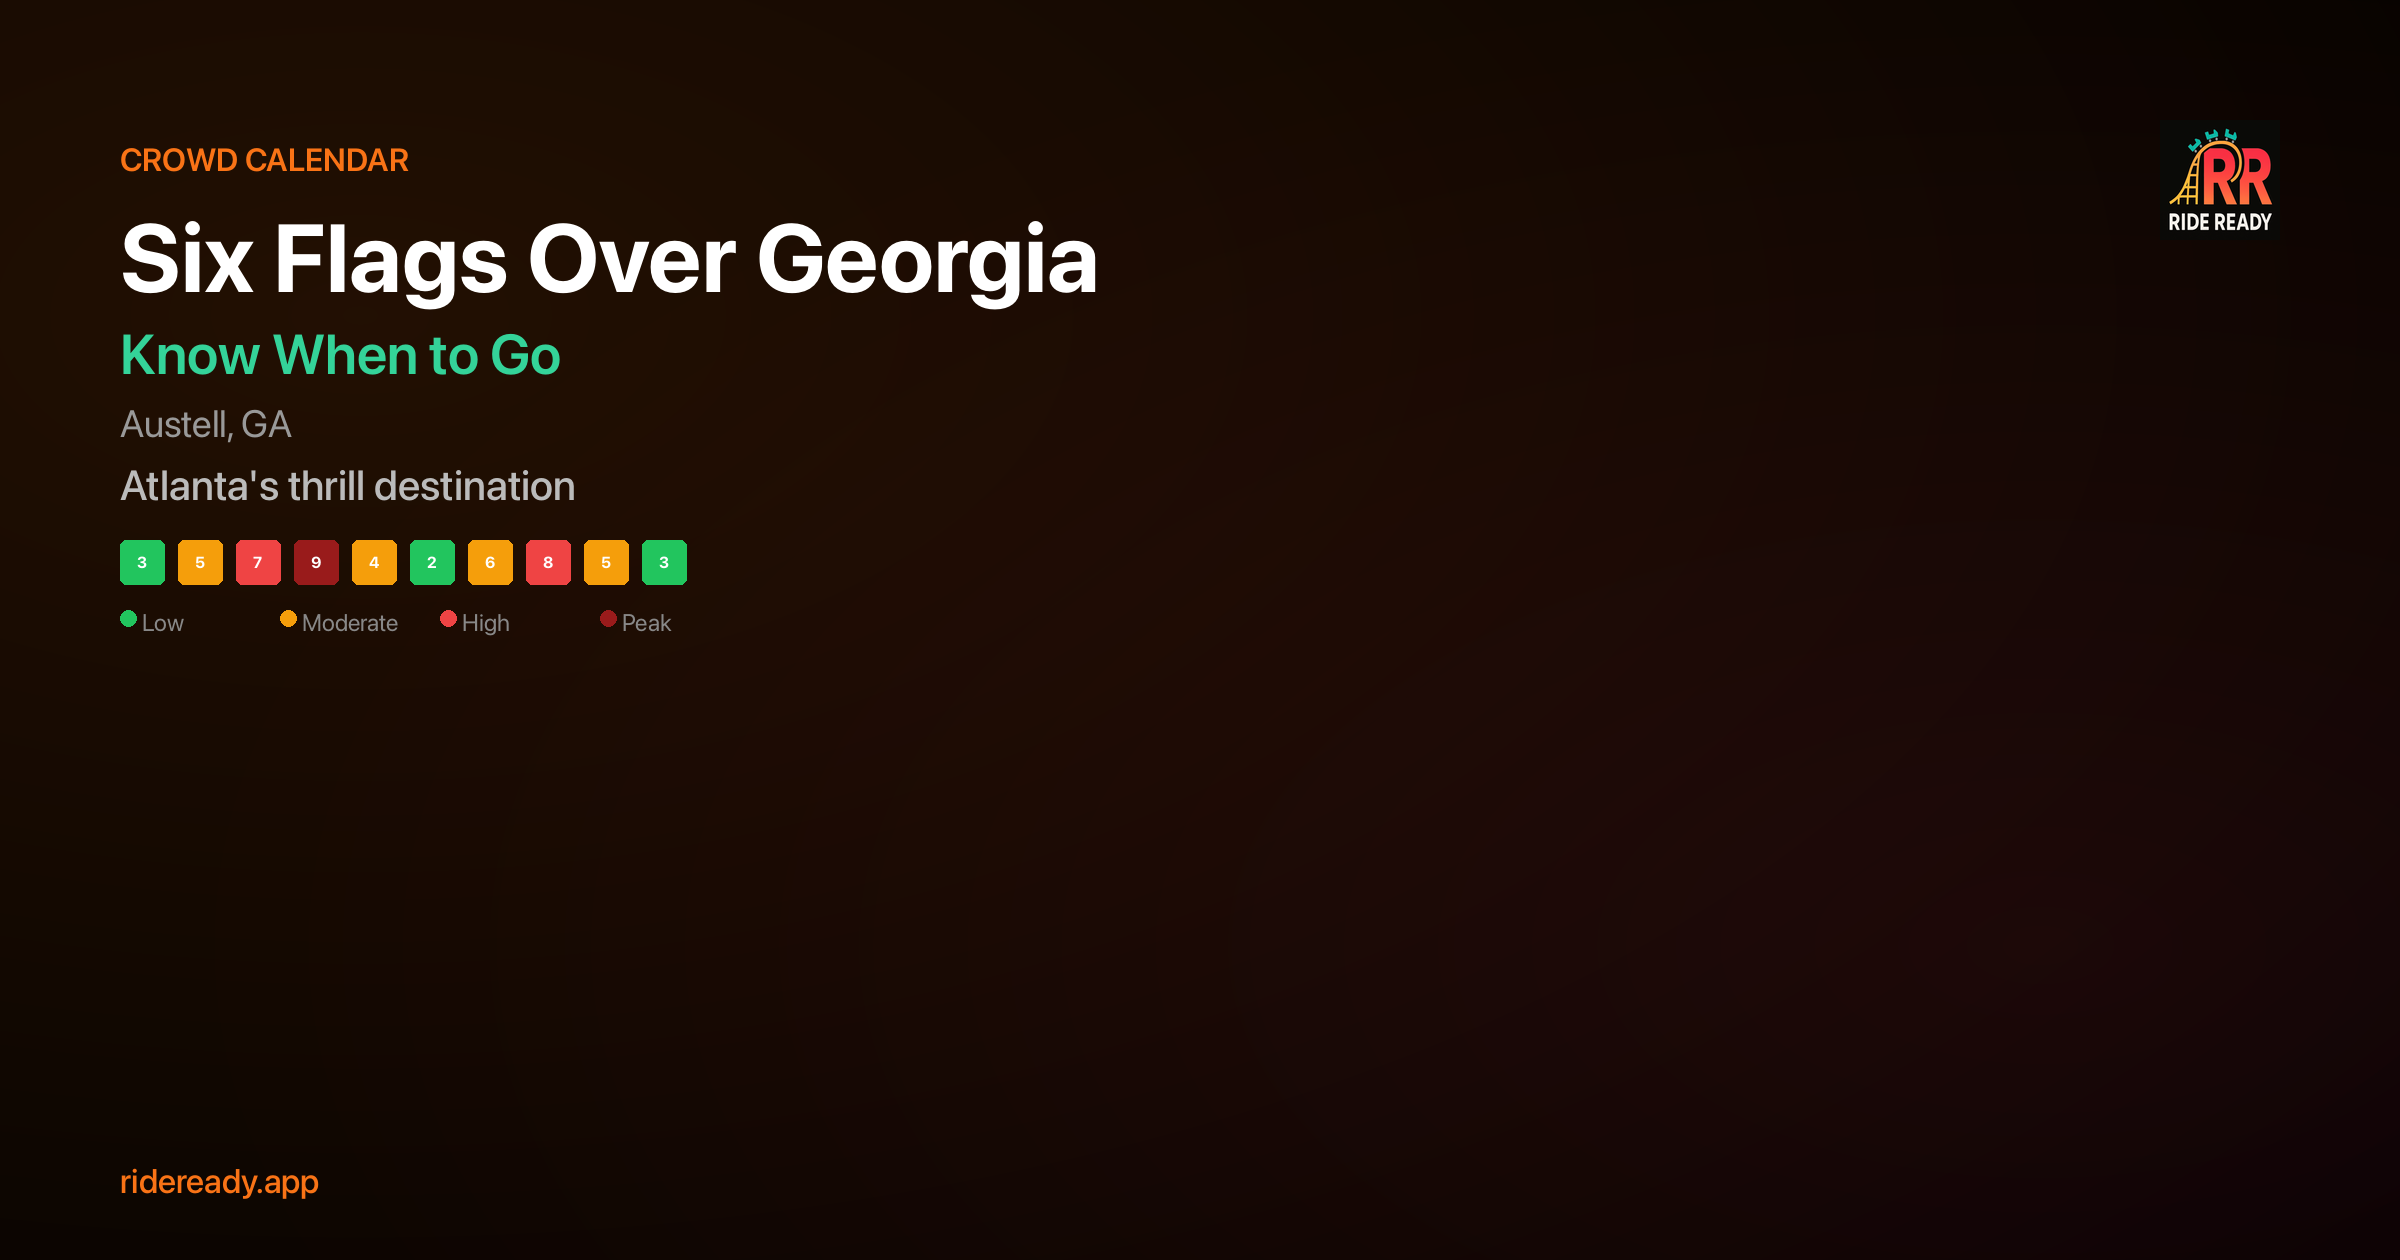
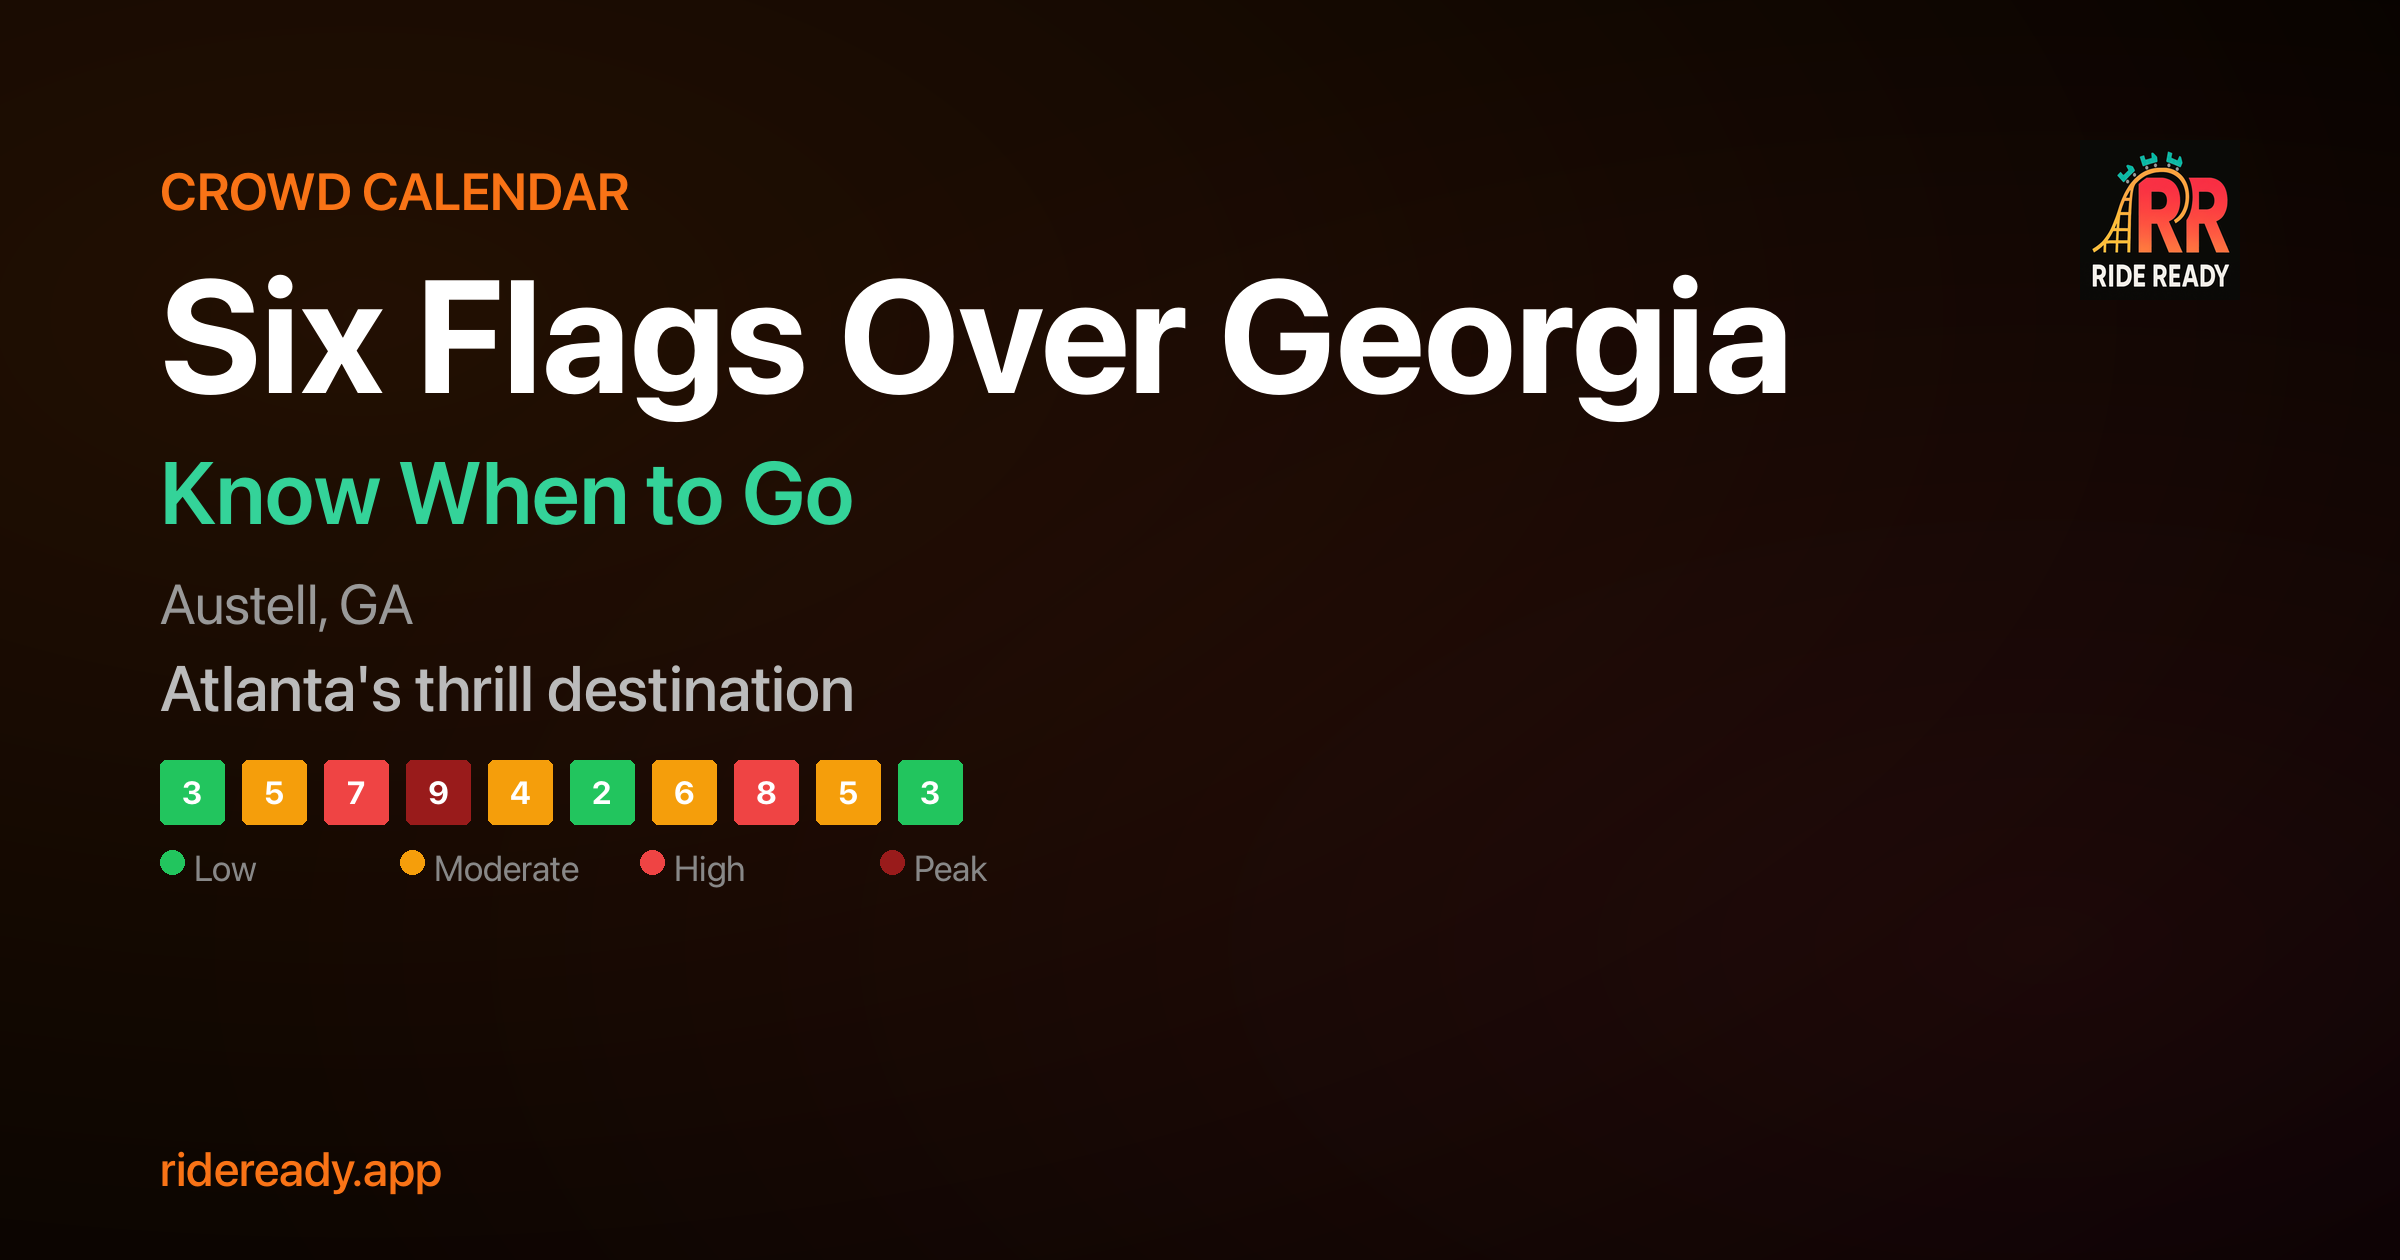
fix: show date + "Closed" on closed calendar days + scale up OG images
Calendar: closed days now show the date number and "Closed" label
instead of blank cells. Applied to all 14 park calendar pages.

OG images: roughly doubled all font sizes and element spacing so
the text fills the 2400x1260 canvas. Previous version had tiny
text clustered in the upper-left with too much empty space.

diff --git a/parks/busch-gardens-tampa/crowd-calendar/index.html b/parks/busch-gardens-tampa/crowd-calendar/index.html
@@ -1707,9 +1707,10 @@
         const dateStr = `${year}-${String(month).padStart(2, "0")}-${String(day).padStart(2, "0")}`;
         const rec = getActualForDate(dateStr);
         if (!rec) {
-          const empty = document.createElement("div");
-          empty.className = "cell empty";
-          grid.appendChild(empty);
+          const closed = document.createElement("div");
+          closed.className = "cell empty";
+          closed.innerHTML = '<span class="cell-date" style="opacity:0.35">' + day + '</span><span class="cell-label" style="opacity:0.3;font-size:0.6rem">Closed</span>';
+          grid.appendChild(closed);
           continue;
         }
         grid.appendChild(buildCell(rec));

diff --git a/parks/busch-gardens-williamsburg/crowd-calendar/index.html b/parks/busch-gardens-williamsburg/crowd-calendar/index.html
@@ -1707,9 +1707,10 @@
         const dateStr = `${year}-${String(month).padStart(2, "0")}-${String(day).padStart(2, "0")}`;
         const rec = getActualForDate(dateStr);
         if (!rec) {
-          const empty = document.createElement("div");
-          empty.className = "cell empty";
-          grid.appendChild(empty);
+          const closed = document.createElement("div");
+          closed.className = "cell empty";
+          closed.innerHTML = '<span class="cell-date" style="opacity:0.35">' + day + '</span><span class="cell-label" style="opacity:0.3;font-size:0.6rem">Closed</span>';
+          grid.appendChild(closed);
           continue;
         }
         grid.appendChild(buildCell(rec));

diff --git a/parks/canadas-wonderland/crowd-calendar/index.html b/parks/canadas-wonderland/crowd-calendar/index.html
@@ -1709,9 +1709,10 @@
         const dateStr = `${year}-${String(month).padStart(2, "0")}-${String(day).padStart(2, "0")}`;
         const rec = getActualForDate(dateStr);
         if (!rec) {
-          const empty = document.createElement("div");
-          empty.className = "cell empty";
-          grid.appendChild(empty);
+          const closed = document.createElement("div");
+          closed.className = "cell empty";
+          closed.innerHTML = '<span class="cell-date" style="opacity:0.35">' + day + '</span><span class="cell-label" style="opacity:0.3;font-size:0.6rem">Closed</span>';
+          grid.appendChild(closed);
           continue;
         }
         grid.appendChild(buildCell(rec));

diff --git a/parks/carowinds/crowd-calendar/index.html b/parks/carowinds/crowd-calendar/index.html
@@ -1707,9 +1707,10 @@
         const dateStr = `${year}-${String(month).padStart(2, "0")}-${String(day).padStart(2, "0")}`;
         const rec = getActualForDate(dateStr);
         if (!rec) {
-          const empty = document.createElement("div");
-          empty.className = "cell empty";
-          grid.appendChild(empty);
+          const closed = document.createElement("div");
+          closed.className = "cell empty";
+          closed.innerHTML = '<span class="cell-date" style="opacity:0.35">' + day + '</span><span class="cell-label" style="opacity:0.3;font-size:0.6rem">Closed</span>';
+          grid.appendChild(closed);
           continue;
         }
         grid.appendChild(buildCell(rec));

diff --git a/parks/cedar-point/crowd-calendar/index.html b/parks/cedar-point/crowd-calendar/index.html
@@ -1707,9 +1707,10 @@
         const dateStr = `${year}-${String(month).padStart(2, "0")}-${String(day).padStart(2, "0")}`;
         const rec = getActualForDate(dateStr);
         if (!rec) {
-          const empty = document.createElement("div");
-          empty.className = "cell empty";
-          grid.appendChild(empty);
+          const closed = document.createElement("div");
+          closed.className = "cell empty";
+          closed.innerHTML = '<span class="cell-date" style="opacity:0.35">' + day + '</span><span class="cell-label" style="opacity:0.3;font-size:0.6rem">Closed</span>';
+          grid.appendChild(closed);
           continue;
         }
         grid.appendChild(buildCell(rec));

diff --git a/parks/epic-universe/crowd-calendar/index.html b/parks/epic-universe/crowd-calendar/index.html
@@ -1707,9 +1707,10 @@
         const dateStr = `${year}-${String(month).padStart(2, "0")}-${String(day).padStart(2, "0")}`;
         const rec = getActualForDate(dateStr);
         if (!rec) {
-          const empty = document.createElement("div");
-          empty.className = "cell empty";
-          grid.appendChild(empty);
+          const closed = document.createElement("div");
+          closed.className = "cell empty";
+          closed.innerHTML = '<span class="cell-date" style="opacity:0.35">' + day + '</span><span class="cell-label" style="opacity:0.3;font-size:0.6rem">Closed</span>';
+          grid.appendChild(closed);
           continue;
         }
         grid.appendChild(buildCell(rec));

diff --git a/parks/islands-of-adventure/crowd-calendar/index.html b/parks/islands-of-adventure/crowd-calendar/index.html
@@ -1707,9 +1707,10 @@
         const dateStr = `${year}-${String(month).padStart(2, "0")}-${String(day).padStart(2, "0")}`;
         const rec = getActualForDate(dateStr);
         if (!rec) {
-          const empty = document.createElement("div");
-          empty.className = "cell empty";
-          grid.appendChild(empty);
+          const closed = document.createElement("div");
+          closed.className = "cell empty";
+          closed.innerHTML = '<span class="cell-date" style="opacity:0.35">' + day + '</span><span class="cell-label" style="opacity:0.3;font-size:0.6rem">Closed</span>';
+          grid.appendChild(closed);
           continue;
         }
         grid.appendChild(buildCell(rec));

diff --git a/parks/kings-dominion/crowd-calendar/index.html b/parks/kings-dominion/crowd-calendar/index.html
@@ -1707,9 +1707,10 @@
         const dateStr = `${year}-${String(month).padStart(2, "0")}-${String(day).padStart(2, "0")}`;
         const rec = getActualForDate(dateStr);
         if (!rec) {
-          const empty = document.createElement("div");
-          empty.className = "cell empty";
-          grid.appendChild(empty);
+          const closed = document.createElement("div");
+          closed.className = "cell empty";
+          closed.innerHTML = '<span class="cell-date" style="opacity:0.35">' + day + '</span><span class="cell-label" style="opacity:0.3;font-size:0.6rem">Closed</span>';
+          grid.appendChild(closed);
           continue;
         }
         grid.appendChild(buildCell(rec));

diff --git a/parks/kings-island/crowd-calendar/index.html b/parks/kings-island/crowd-calendar/index.html
@@ -1707,9 +1707,10 @@
         const dateStr = `${year}-${String(month).padStart(2, "0")}-${String(day).padStart(2, "0")}`;
         const rec = getActualForDate(dateStr);
         if (!rec) {
-          const empty = document.createElement("div");
-          empty.className = "cell empty";
-          grid.appendChild(empty);
+          const closed = document.createElement("div");
+          closed.className = "cell empty";
+          closed.innerHTML = '<span class="cell-date" style="opacity:0.35">' + day + '</span><span class="cell-label" style="opacity:0.3;font-size:0.6rem">Closed</span>';
+          grid.appendChild(closed);
           continue;
         }
         grid.appendChild(buildCell(rec));

diff --git a/parks/seaworld-orlando/crowd-calendar/index.html b/parks/seaworld-orlando/crowd-calendar/index.html
@@ -1707,9 +1707,10 @@
         const dateStr = `${year}-${String(month).padStart(2, "0")}-${String(day).padStart(2, "0")}`;
         const rec = getActualForDate(dateStr);
         if (!rec) {
-          const empty = document.createElement("div");
-          empty.className = "cell empty";
-          grid.appendChild(empty);
+          const closed = document.createElement("div");
+          closed.className = "cell empty";
+          closed.innerHTML = '<span class="cell-date" style="opacity:0.35">' + day + '</span><span class="cell-label" style="opacity:0.3;font-size:0.6rem">Closed</span>';
+          grid.appendChild(closed);
           continue;
         }
         grid.appendChild(buildCell(rec));

diff --git a/parks/six-flags-great-adventure/crowd-calendar/index.html b/parks/six-flags-great-adventure/crowd-calendar/index.html
@@ -1707,9 +1707,10 @@
         const dateStr = `${year}-${String(month).padStart(2, "0")}-${String(day).padStart(2, "0")}`;
         const rec = getActualForDate(dateStr);
         if (!rec) {
-          const empty = document.createElement("div");
-          empty.className = "cell empty";
-          grid.appendChild(empty);
+          const closed = document.createElement("div");
+          closed.className = "cell empty";
+          closed.innerHTML = '<span class="cell-date" style="opacity:0.35">' + day + '</span><span class="cell-label" style="opacity:0.3;font-size:0.6rem">Closed</span>';
+          grid.appendChild(closed);
           continue;
         }
         grid.appendChild(buildCell(rec));

diff --git a/parks/six-flags-great-america/crowd-calendar/index.html b/parks/six-flags-great-america/crowd-calendar/index.html
@@ -1707,9 +1707,10 @@
         const dateStr = `${year}-${String(month).padStart(2, "0")}-${String(day).padStart(2, "0")}`;
         const rec = getActualForDate(dateStr);
         if (!rec) {
-          const empty = document.createElement("div");
-          empty.className = "cell empty";
-          grid.appendChild(empty);
+          const closed = document.createElement("div");
+          closed.className = "cell empty";
+          closed.innerHTML = '<span class="cell-date" style="opacity:0.35">' + day + '</span><span class="cell-label" style="opacity:0.3;font-size:0.6rem">Closed</span>';
+          grid.appendChild(closed);
           continue;
         }
         grid.appendChild(buildCell(rec));
